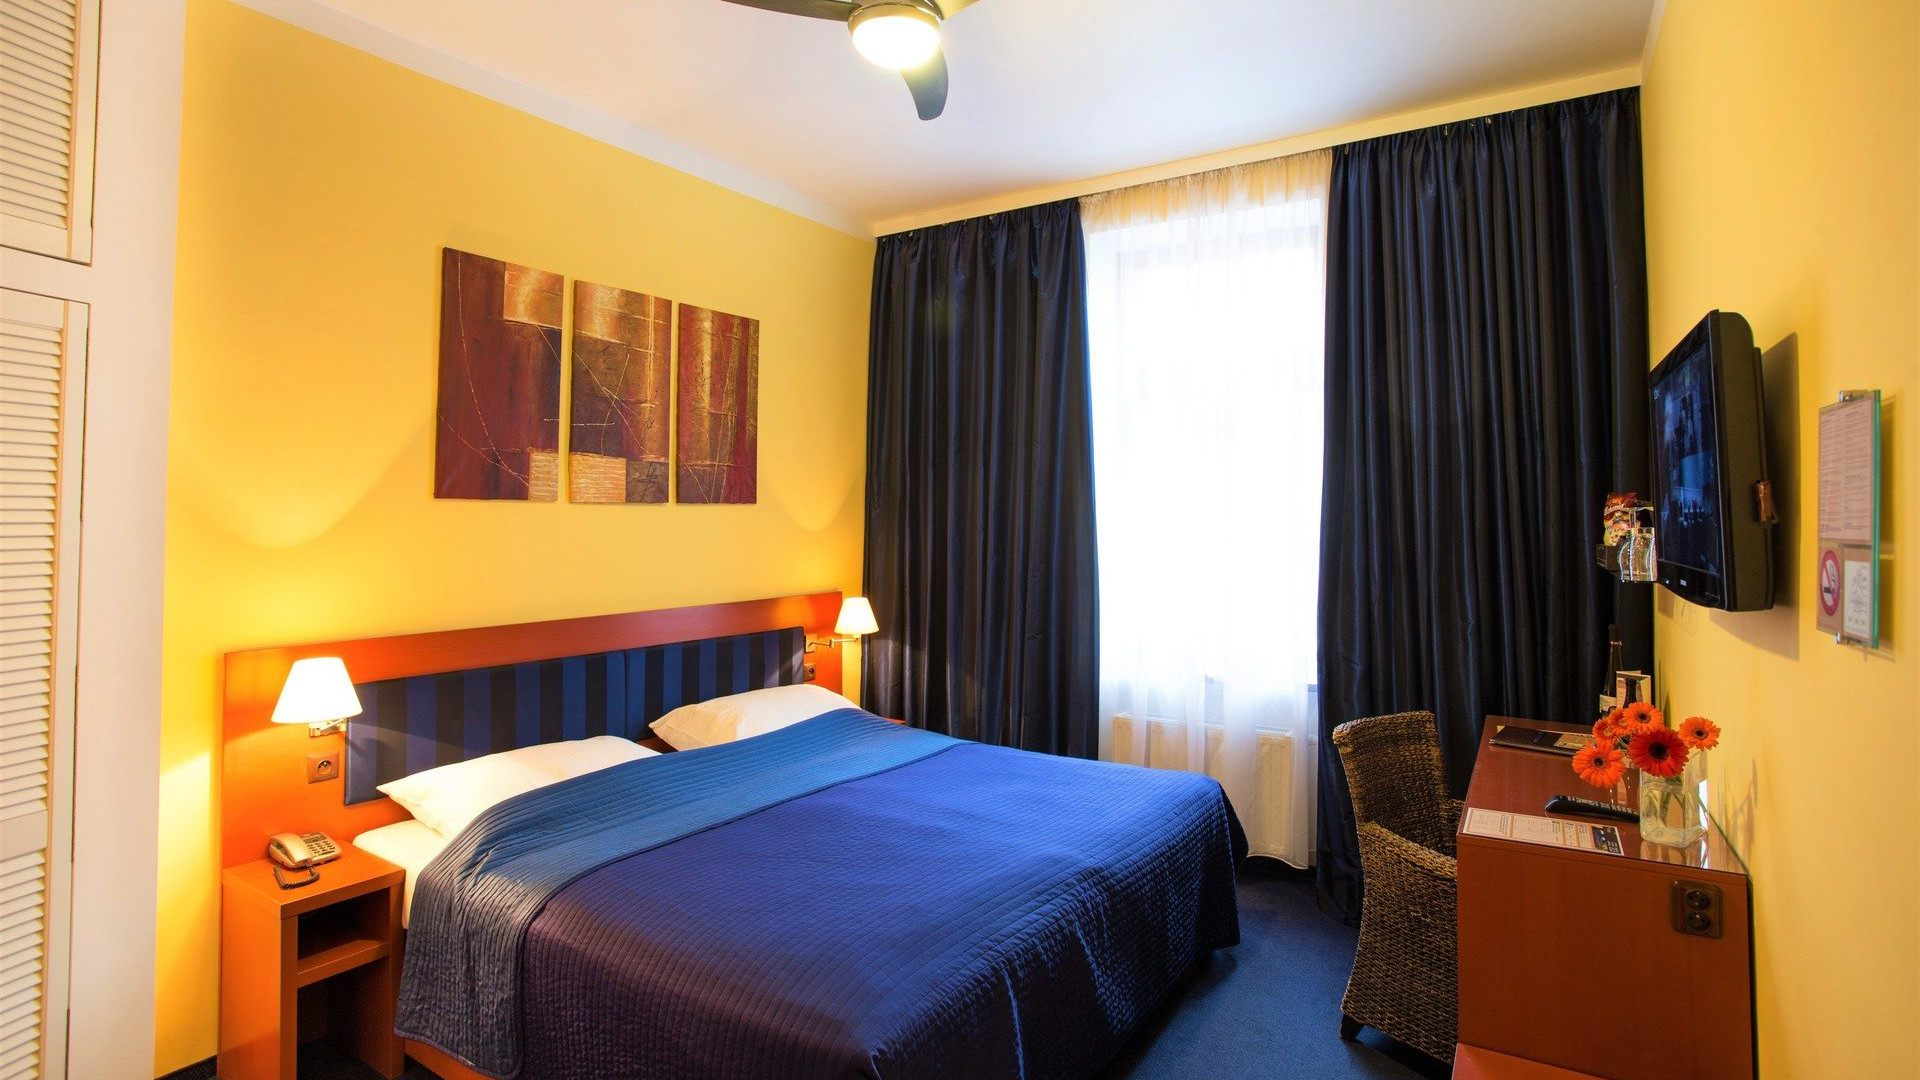
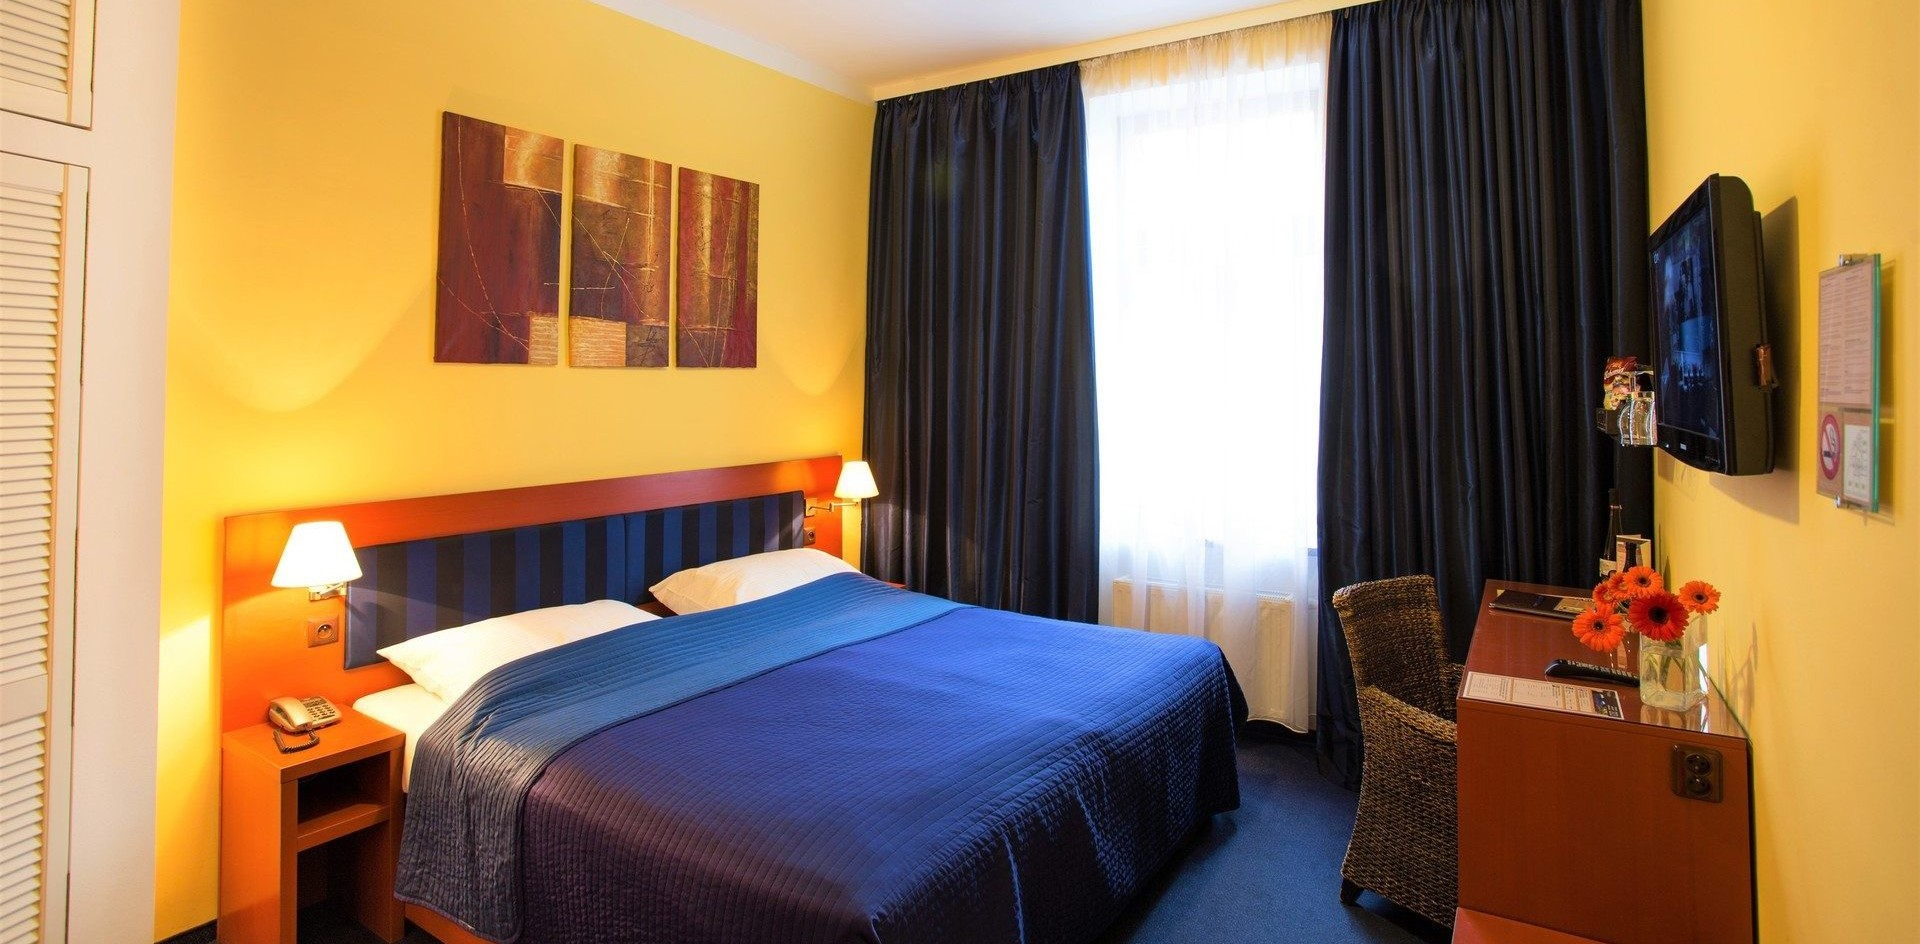
room interface

diff --git a/room_details.php b/room_details.php
@@ -45,7 +45,7 @@
      <div style="font-size:14px;">
       <a href="index.php" class="text-secondary text-decoration-none">HOME</a>
       <span class="text-secondary"> &nbsp; > &nbsp; </span>
-      <a href ="rooms.php" class="text-secondary text-decoration-none">ROOMS</a>
+      <a href ="Accomodation.php" class="text-secondary text-decoration-none">ROOMS</a>
      </div>   
   </div>
       
@@ -54,112 +54,104 @@
        <div class="carousel-inner">
 
          <?php
-               $room_img = ROOMS_IMG_PATH . "thumbnail.png";
-                $thumb_q = mysqli_query($con,"SELECT * FROM room_images 
+               $room_img = ROOMS_IMG_PATH."Villa.jpg";
+               $img_q = mysqli_query($con,"SELECT * FROM room_images 
                   WHERE room_id='$room_data[id]'");
        
-                 if (mysqli_num_rows($thumb_q) > 0) {
-                   $thumb_res = mysqli_fetch_assoc($thumb_q);
-                   $room_thumb = ROOMS_IMG_PATH . $thumb_res['image'];
+                 if(mysqli_num_rows($img_q) > 0)
+                 {
+                   $active_class = 'active';
+                   while($img_res = mysqli_fetch_assoc($img_q))
+                   {
+                    echo"
+                     <div class='carousel-item $active_class'>
+                       <img src='".ROOMS_IMG_PATH.$img_res['image']."' class='d-block w-100 rounded'>
+                     </div>";
+                     $active_class='';
+                   }
+                 }
+
+                 else{
+                  echo "<div class='carousel-item active'>
+                   <img src='$room_img' class='d-block w-100'>
+                   </div>";
                  }
          ?>
-    <div class="carousel-item active">
-      <img src="..." class="d-block w-100" alt="...">
-    </div>
-    <div class="carousel-item">
-      <img src="..." class="d-block w-100" alt="...">
-    </div>
-    <div class="carousel-item">
-      <img src="..." class="d-block w-100" alt="...">
+    
+  </div>
+    <button class="carousel-control-prev" type="button" data-bs-target="#roomCarousal" data-bs-slide="prev">
+      <span class="carousel-control-prev-icon" aria-hidden="true"></span>
+      <span class="visually-hidden">Previous</span>
+    </button>
+    <button class="carousel-control-next" type="button" data-bs-target="#roomCarousal" data-bs-slide="next">
+      <span class="carousel-control-next-icon" aria-hidden="true"></span>
+      <span class="visually-hidden">Next</span>
+    </button>
     </div>
   </div>
-  <button class="carousel-control-prev" type="button" data-bs-target="#roomCarousal" data-bs-slide="prev">
-    <span class="carousel-control-prev-icon" aria-hidden="true"></span>
-    <span class="visually-hidden">Previous</span>
-  </button>
-  <button class="carousel-control-next" type="button" data-bs-target="#roomCarousal" data-bs-slide="next">
-    <span class="carousel-control-next-icon" aria-hidden="true"></span>
-    <span class="visually-hidden">Next</span>
-  </button>
-</div>
+
+
+    <div class="col-lg-5 col-md-12 px-4">
+      <div class="card mb-3 border-0 shadow-sm rounded-3">
+        <div class="card-body">
+          <?php
+             echo<<<price
+             <h4>Rs. $room_data[price] per night</h4>
+             price;
+
+             echo<<<rating
+               <div class="rating mb-3">
+                 <i class="bi bi-star-fill text-warning"></i>
+                 <i class="bi bi-star-fill text-warning"></i>
+                 <i class="bi bi-star-fill text-warning"></i>
+                 <i class="bi bi-star-fill text-warning"></i>
+                </div> 
+             rating;
+
+             $fac_q = mysqli_query($con,"SELECT f.name FROM `facilities` f 
+                     INNER JOIN room_facilities rfac ON f.id = rfac.facilities_id
+                     WHERE rfac.room_id = '$room_data[id]'");
+      
+                $facilities_data = "";
+                while ($fac_row = mysqli_fetch_assoc($fac_q)) {
+                  $facilities_data .= "<span class='badge rounded-pill bg-light text-dark text-wrap me-1 mb-1'>
+                  $fac_row[name]
+              </span>";
+      
+                }
+
+                echo<<<facilities
+                <div class="mb-3">
+                    <h6 class="mb-1">Facilities</h6>
+                    $facilities_data
+                  </div>
+                facilities;
+
+
+                echo<<<guests
+                <div class="mb-3">
+                      <h6 class="mb-1">Guests</h6>
+                        <span class="badge rounded-pill bg-light text-dark text-wrap">
+                           $room_data[adult] Adults
+                        </span>
+                        <span class="badge rounded-pill bg-light text-dark text-wrap">
+                           $room_data[children] Children
+                              </span>  
+                        </div>
+                guests;
+
+
+                echo<<<book
+                <a href="#" class="btn w-100 
+                 text-white custom-bg shadow-none mb-1">Book Now</a>
+                book;
+          ?>
+        </div> 
     </div>
 
-
       <!--Rooms-->
-      <div class="col-lg-9 col-md-12 px-4">
+      <div class="col-12 px-4">
 
-        <?php
-        // $room_res = select("SELECT * FROM rooms WHERE status=? AND removed=?", [1, 0], 'ii');
-
-        // while ($room_data = mysqli_fetch_assoc($room_res)) {
-        //   //get facilities of room
-        
-        //   $fac_q = mysqli_query(
-        //     $con,
-        //     "SELECT f.name FROM `facilities` f 
-        //        INNER JOIN room_facilities rfac ON f.id = rfac.facilities_id
-        //        WHERE rfac.room_id = '$room_data[id]'"
-        //   );
-
-
-        //   $facilities_data = "";
-        //   while ($fac_row = mysqli_fetch_assoc($fac_q)) {
-        //     $facilities_data .= "<span class='badge rounded-pill bg-light text-dark text-wrap'>
-        //     $fac_row[name]
-        // </span>";
-
-        //   }
-
-        //   //get thumbnail of image
-        
-        //   $room_thumb = ROOMS_IMG_PATH . "thumbnail.png";
-        //   $thumb_q = mysqli_query(
-        //     $con,
-        //     "SELECT * FROM room_images 
-        //    WHERE room_id='$room_data[id]' AND thumb='1'"
-        //   );
-
-        //   if (mysqli_num_rows($thumb_q) > 0) {
-        //     $thumb_res = mysqli_fetch_assoc($thumb_q);
-        //     $room_thumb = ROOMS_IMG_PATH . $thumb_res['image'];
-        //   }
-
-        //   //print room card
-        
-        //   echo <<<data
-            
-        //   <div class="card mb-3 border-0 shadow">
-        //     <div class="row g-0 p-3 align-items-center">
-        //       <div class="col-md-5 mb-lg-0 mb-md-0 mb-3">
-        //        <img src="$room_thumb" class="img-fluid rounded">
-        //       </div>
-        //       <div class="col-md-5 px-lg-4 px-md-3 px-0">
-        //         <h5 class="mb-3">$room_data[name]</h5>
-        //          <div class="facilities mb-3">
-        //             <h6 class="mb-1">Facilities</h6>
-        //             $facilities_data
-        //           </div>
-        //           <div class="guests">
-        //             <h6 class="mb-1">Guests</h6>
-        //               <span class="badge rounded-pill bg-light text-dark text-wrap">
-        //                   $room_data[adult] Adults
-        //               </span>
-        //               <span class="badge rounded-pill bg-light text-dark text-wrap">
-        //                   $room_data[children] Children
-        //               </span>  
-        //           </div>
-        //      </div>   
-        //      <div class="col-md-2 mt-lg-0 mt-md-0 mt-4 text-center">
-        //       <h6 class="mb-4">Rs. $room_data[price] per night</h6>  
-        //         <a href="#" class="btn btn-sm w-100 text-white custom-bg shadow-none mb-2">Book Now</a>
-        //         <a href="room_details.php?id=$room_data[id]" class="btn btn-sm w-100 btn-outline-dark shadow-none">More details</a>
-        //          </div>
-        //     </div>
-        //   </div>
-
-        // data;
-        // }
-        ?>
 
       </div>
     </div>

diff --git a/admin/rooms.php b/admin/rooms.php
@@ -113,7 +113,7 @@
        
 
              <!-- edit room modal-->
-                <div class="modal-fade" id="edit-room" data-bs-backdrop="static" data-bs-keyboard="false" tabindex="-1" aria-labelledby="staticBackdropLabel" aria-hidden="true">
+                <div class="modal fade" id="edit-room" data-bs-backdrop="static" data-bs-keyboard="false" tabindex="-1" aria-labelledby="staticBackdropLabel" aria-hidden="true">
                     <div class="modal-dialog modal-lg">
                         <form  id="edit_room_form" autocomplete="off">
                         <div class="modal-content">

diff --git a/Accomodation.php b/Accomodation.php
@@ -190,7 +190,7 @@
 
           $facilities_data = "";
           while ($fac_row = mysqli_fetch_assoc($fac_q)) {
-            $facilities_data .= "<span class='badge rounded-pill bg-light text-dark text-wrap'>
+            $facilities_data .= "<span class='badge rounded-pill bg-light text-dark text-wrap me-1 mb-1'>
             $fac_row[name]
         </span>";
 
